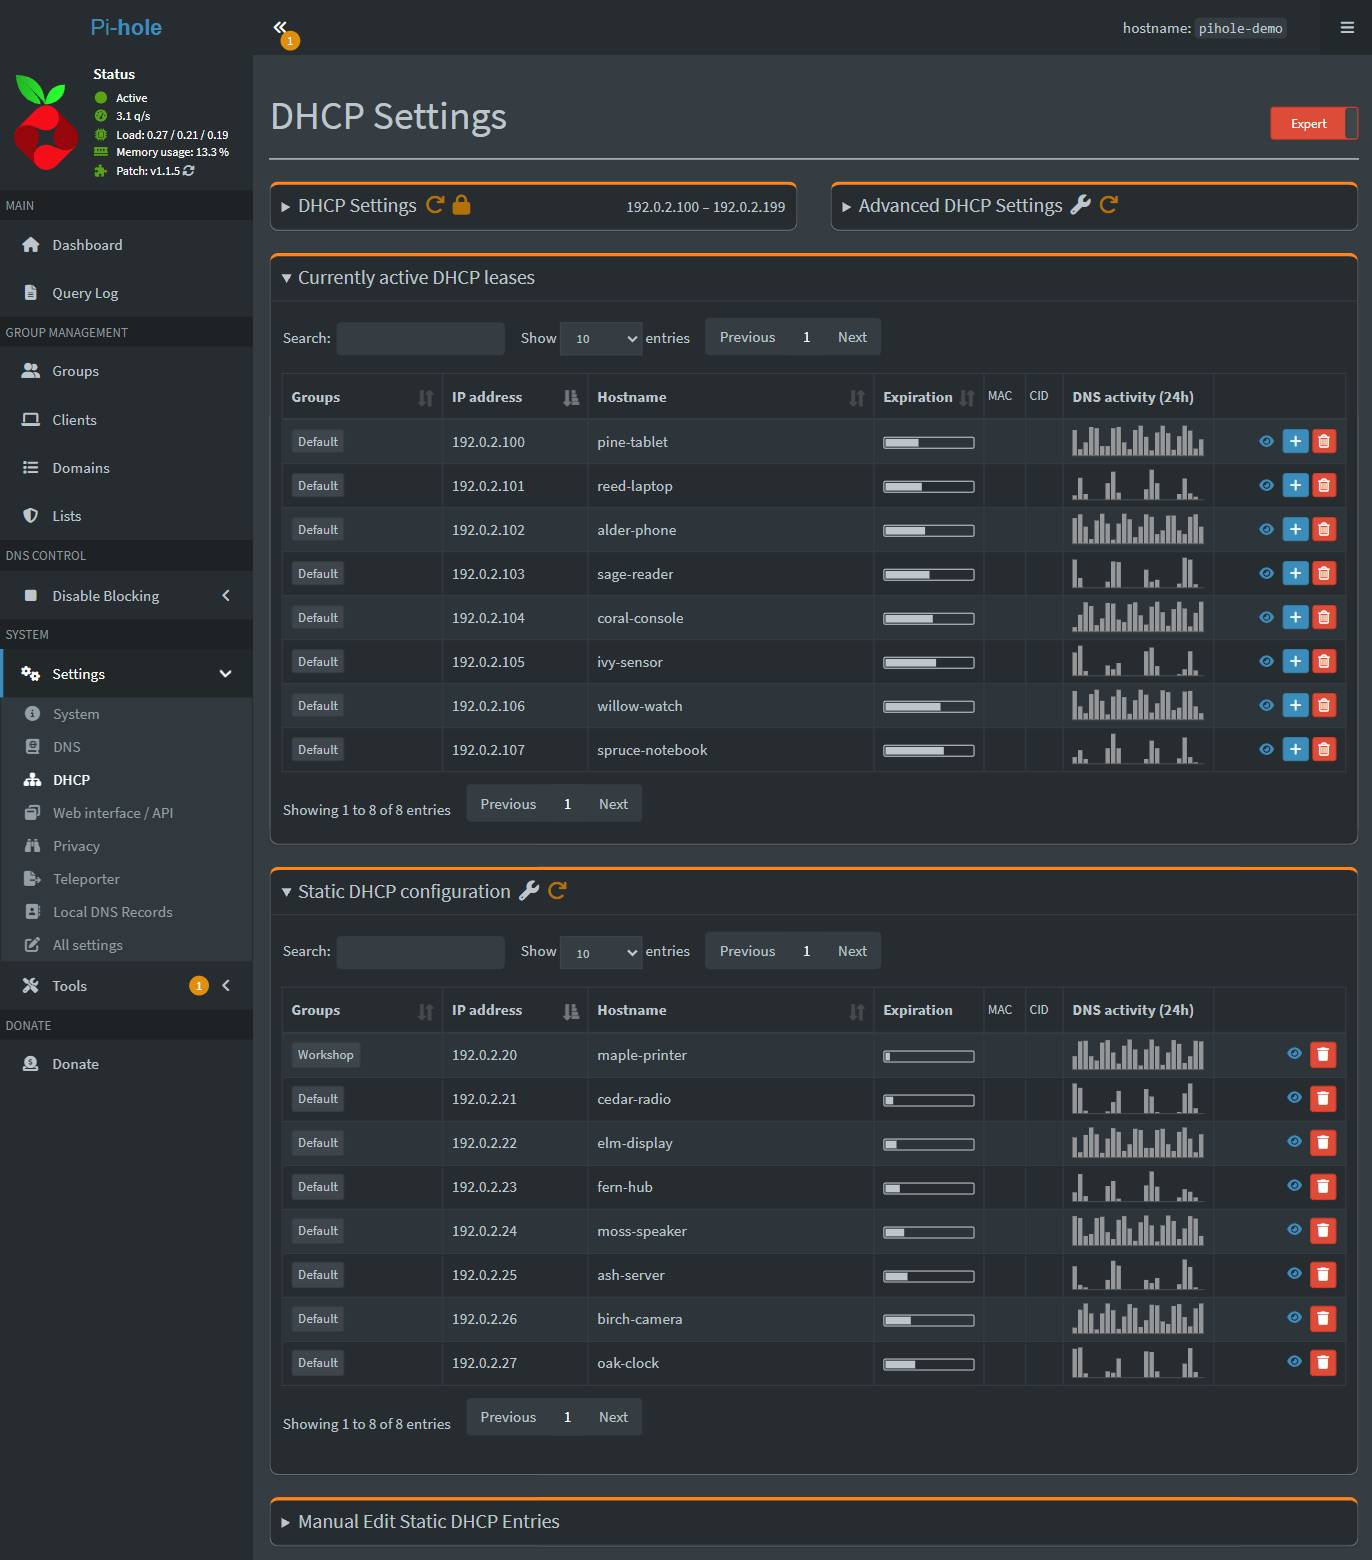
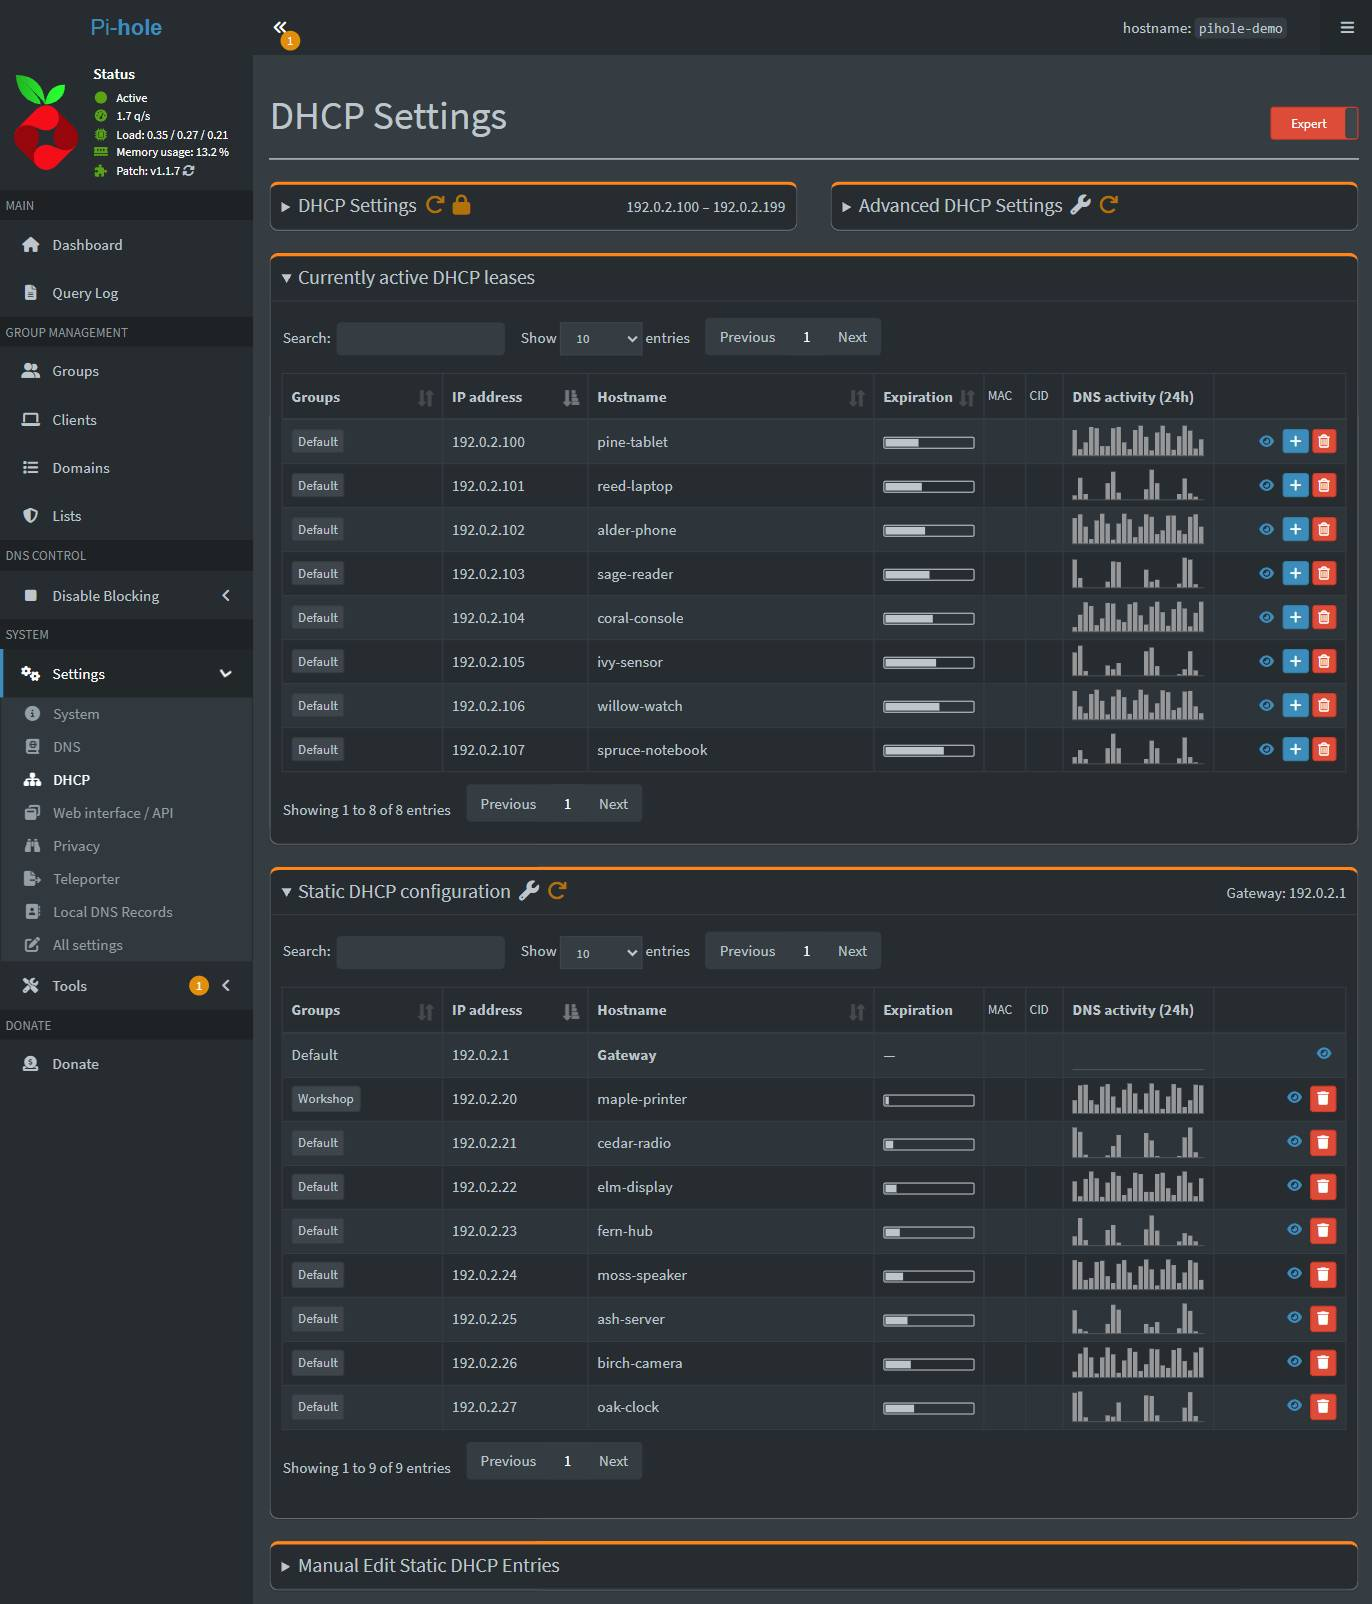
Identify the DHCP gateway and show it without a delete action

diff --git a/docs/check.html b/docs/check.html
@@ -13,7 +13,7 @@ h1 { font-size: 1.5rem; } li { margin-block: .6rem; }
 <p id="status"></p>
 <a href="https://github.com/micassa-pics/pihole-awesome-a-fyer/blob/main/prompts/manage.md">Open the update prompt</a>
 <script>
-const latest = "1.1.6";
+const latest = "1.1.7";
 const installed = new URLSearchParams(location.hash.slice(1));
 const pages = [["dashboard", "Dashboard"], ["dhcp", "DHCP"], ["queries", "Query Log"]].filter(([key]) => installed.has(key));
 const older = pages.filter(([key]) => {

diff --git a/dhcp.md b/dhcp.md
@@ -24,6 +24,8 @@ In **Expiration**, the outline represents the configured lease time. The fill sh
 
 Drag a column header in either DHCP table to move it. Each table remembers its own layout in your browser.
 
+The **Static DHCP configuration** heading shows the configured gateway address. Pi-hole reads this address from its DHCP router setting. The table shows one read-only **Gateway** row with a Query Log link. It has no delete button.
+
 The collapsed **DHCP Settings** heading shows the current address range. In both tables, **Expiration** sits beside **Hostname**. **MAC** and **CID** start collapsed. The screenshots keep both headings visible and leave the cells below them empty. Tap either header label to show or hide that column in both tables. Corresponding columns have the same width.
 
 The **DNS activity (24h)** column immediately after **Client ID** shows one hourly bar per active lease for the past day. Hover over a slot for its UTC interval and query count. An empty chart shows only the horizontal axis.
